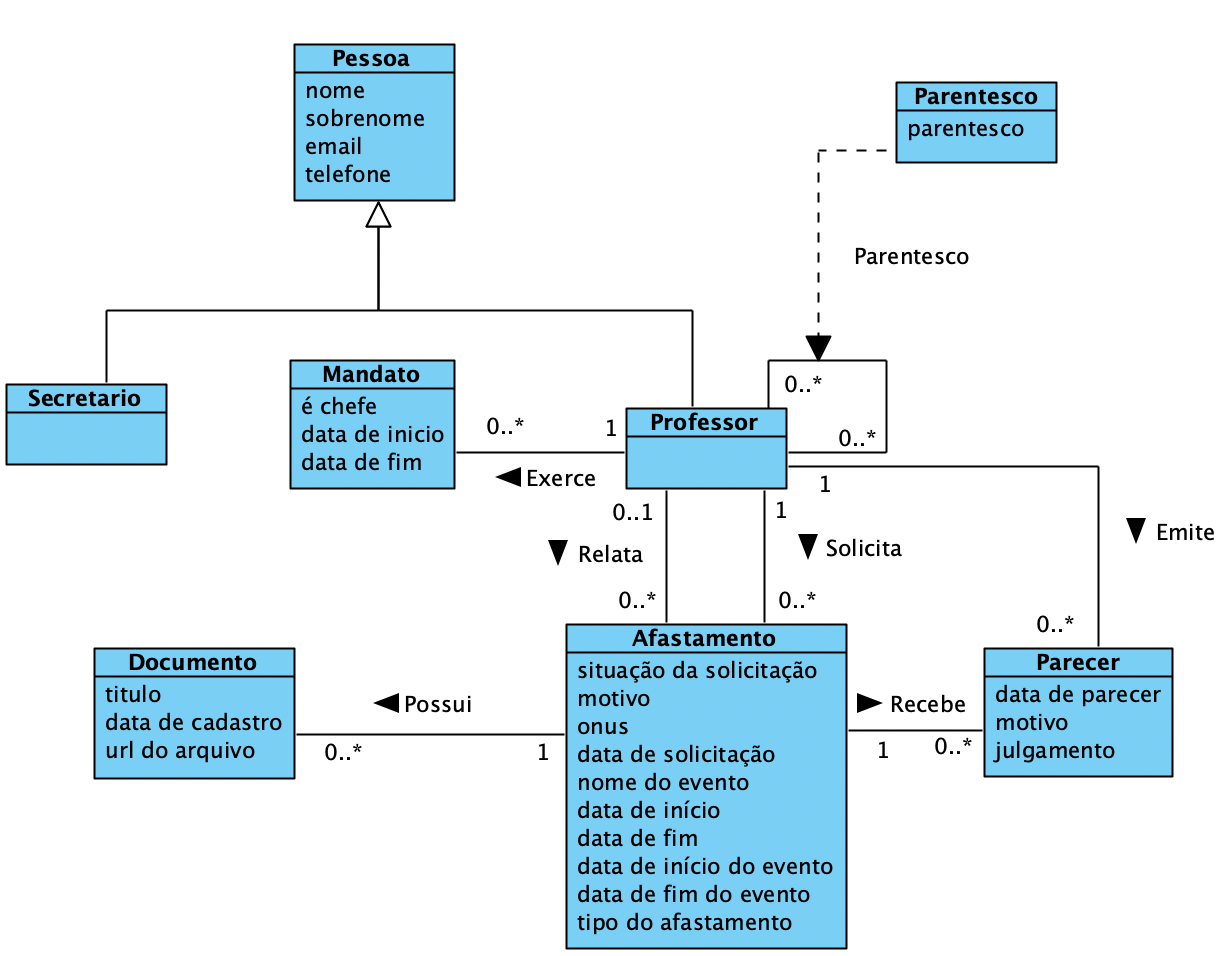
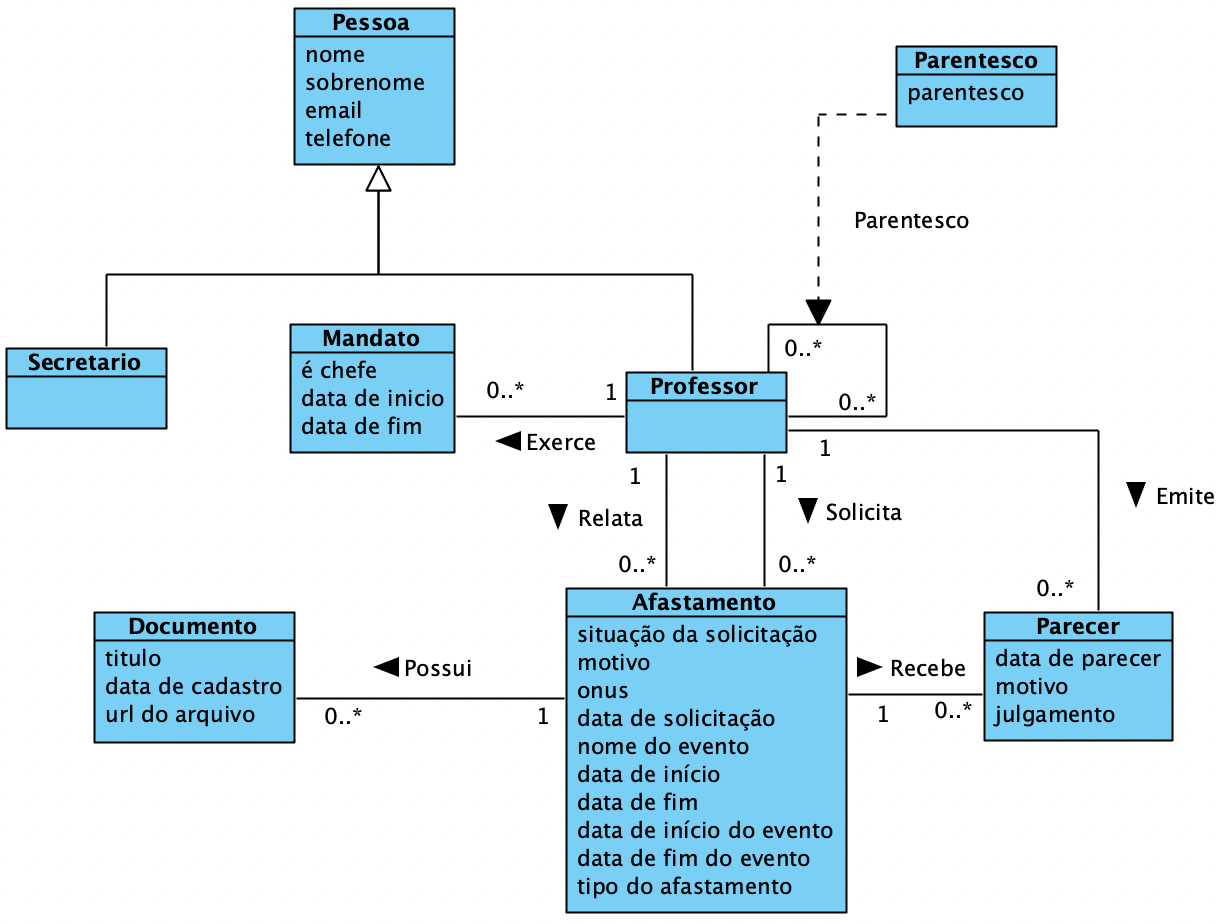
:recycle: Corrige revisões

diff --git a/tcc-monografia/capitulos/ch2-referencial.tex b/tcc-monografia/capitulos/ch2-referencial.tex
@@ -14,7 +14,8 @@ em seguida, o método FrameWeb é explicado na Seção \ref{sec-fundteo-frameweb
 e, por fim, as categorias de \textit{frameworks} suportadas pelo método, assim como o \textit{framework}
 utilizado neste trabalho são apresentados na Seção \ref{sec-fundteo-framework}.
 
-\vitor{E a Seção~\ref{sec-fundteo-framework-ts}? Vide também comentário lá na Seção~\ref{sec-fundteo-framework-ts}, pois ela acabou ficando muito pequena, talvez seja melhor não ter mesmo, incorporar em outra seção.}
+\vitor{E a Seção? Vide também comentário lá na Seção, pois ela acabou ficando muito pequena, talvez seja melhor não ter mesmo, incorporar em outra seção.}
+\sophie{Achei de fato melhor incorporar na Seção~\ref{sec-fundteo-framework-next}}.
 
 %%%%%%%%% Início de seção. %%%%%%%%%
 \section{Engenharia de Software}
@@ -66,6 +67,22 @@ Negócio, requisitos provenientes do domínio de aplicação do sistema que refl
 e restrições do mesmo~\cite{sommerville:2011,falbo:2014}.
 
 \vitor{Seria interessante colocar uma breve seção sobre Projeto de Sistemas aqui, entre requisitos e Web. Quando você fala de FrameWeb mais à frente, você menciona a fase de projeto de sistemas.}
+
+
+\subsection{Projeto de Sistemas}
+\label{subsec-fundteo-engsoft-projsis}
+
+A fase Projeto de Sistemas ocorre após a Especificação de Software, e tem como objetivo
+incorporar a tecnologia aos requisitos funcionais e não funcionais definidos anteriormente,
+projetando o que será construído na implementação. 
+Assim, é necessário conhecer as tecnologias disponíveis e as facilidades do ambiente de software no qual o
+sistema será implementado, uma vez que essas informações não eram consideradas na etapa
+anterior~\cite{falbo:2014,pressman:2011}. 
+
+Inicialmente, o projeto é representado em um nível alto de abstração e, à medida que o trabalho avança,
+os refinamentos conduzem a representações de menores níveis de abstração~\cite{falbo:2014}.
+Dessa forma, o resultado do processo de projeto de arquitetura é um modelo de arquitetura que descreve como o sistema
+está organizado em um conjunto de componentes de comunicação~\cite{sommerville:2011}.
 
 
 \subsection{Engenharia \textit{Web}}
@@ -224,9 +241,10 @@ Grande parte dos sistemas precisam que seus dados sejam armazenados de alguma fo
 dentre os diversos tipos de sistemas de armazenamento, os bancos de dados relacionais são
 os mais utilizados. Esses sistemas possuem uma estrutura de dados organizada em tabelas, e a partir de 
 um sistema de gerenciamento de banco de dados relacional (SGBDR), é possível manipular esses dados
-por meio da linguagem SQL (\textit{Structured Query Language} ou Linguagem Estruturada de Consulta).
+por meio da linguagem SQL (\textit{Structured Query Language} ou Linguagem Estruturada de Consulta)~\cite{silberschatz:2019}.
 
 \vitor{Veja se consegue na bibliografia da disciplina de banco de dados alguma publicação que diga o que você menciona acima (o livro do Elmasri \& Navathe talvez diga?) e adicione a referência bibliográfica. Se não vai ficar como sendo sua opinião (apesar de ser uma opinião popular). No trabalho de Mestrado do Félix ele provavelmente disse algo parecido com o parágrafo acima e deve ter citado alguém pra embasar, se quiser dar uma olhada: \url{http://www.inf.ufes.br/~vitorsouza/wp-content/papercite-data/pdf/zanetti-msc20.pdf}}
+\sophie{Adicionada referência bibliográfica.}
 
 Por outro lado, muitas aplicações utilizam linguagens de programação orientadas a objetos (OO), o que
 pode tornar a manipulação de dados em um banco de dados relacional mais complexa, uma vez que
@@ -249,7 +267,6 @@ Prisma para TypeScript.\footnote{Prisma, \url{https://www.prisma.io}}
 \label{sec-fundteo-framework-next}
 
 
-
 O Next.js é um \textit{framework Web} baseado no React, biblioteca JavaScript \textit{front-end open-source}
 baseada em componentes, voltada para a construção da interface de usuário e mantida pela Meta.\footnote{Meta, \url{https://about.meta.com}}
 Por ser uma biblioteca, o React não implementa 
@@ -269,12 +286,6 @@ Outro ponto alto do Next.js é a facilidade de se fazer o \textit{deploy} da apl
 de forma otimizada com o provedor de \textit{hosting} da Vercel,\footnote{Vercel, \url{https://vercel.com}} 
 plataforma que desenvolveu o \textit{framework}~\cite{nextjs:2023}.
 
-% \sophie{Posso citar a página da vercel/next como referencia?}
-% \vitor{Pode sim. Só achei a descrição do Next.js muito breve e que também poderia ter uma descrição do React, já que ele usa como base.}
-
-
-\section{TypeScript}
-\label{sec-fundteo-framework-ts}
 \textit{JavaScript} é uma linguagem leve e interpretada, que é utilizada para adicionar interatividade e dinamicidade
 à páginas \textit{Web}. No entanto, por ser uma linguagem de tipagem fraca e dinâmica, ela pode ser propensa a erros
 em tempo de execução, o que, em sistemas de porte elevado, pode se tornar um grande problema~\cite{typescript:2024}.
@@ -283,7 +294,10 @@ O \textit{TypeScript} é convertido em código \textit{JavaScript}, e portanto f
 permitindo a detecção de erros em tempo de compilação,
 e outras funcionalidades, como interfaces, \textit{generics} e \textit{unions}~\cite{typescript:2024}.
 
-\vitor{Esta seção está muito pequena. Se você está falando de TypeScript por ela ser a linguagem usada no desenvolvimento com Next.js, então você pode incluir essa informação e mais este parágrafo na seção do Next.js.}
+O Next.js suporta o uso de \textit{TypeScript} em suas aplicações, o que pode ser uma grande vantagem para
+desenvolvedores que desejam ter um código mais seguro e menos propenso a erros.
+
+% \vitor{Esta seção está muito pequena. Se você está falando de TypeScript por ela ser a linguagem usada no desenvolvimento com Next.js, então você pode incluir essa informação e mais este parágrafo na seção do Next.js.}
 
 
 \sophie{Adicionar subseções para falar sobre  MVC}

diff --git a/tcc-monografia/capitulos/ch3-especificao-requisitos.tex b/tcc-monografia/capitulos/ch3-especificao-requisitos.tex
@@ -136,6 +136,8 @@ do levantamento feito por~\citeonline{prado:2015}, juntamente com o que havia si
 levantado anteriormente por~\citeonline{duarte:2014}.
 
 \vitor{A figura foi tirada de \cite{prado:2015}? Se sim, incluir \cite{prado:2015} ao final da legenda (\textit{label}) da figura. Está estranha a relação entre a classe \textsf{Parentesco} e a associação que a clases \textsf{Professor} tem com si própria. Se você refez o diagrama de classes do \citeonline{prado:2015}, precisamos corrigir essa relação.}
+\sophie{A figura foi refeita a partir do diagrama de classes de \cite{prado:2015}, só alterando as cores e a propriedade é chefe em Mandato, o resto esta como foi apresentado por ele. Mas concordo que a relação entre Professor e Parentesco está estranha. Também fiquei em dúvida em relação às cardinalidades das relações Professor e Afastamento (Relata)
+e Parecer e Afastamento, como estas são exclusivas de afastamentos internacionais, nos lugares em que a cardinalidade é 1, deveria ser na verdade 0..1?}
 
 \begin{figure}
     \centering  
